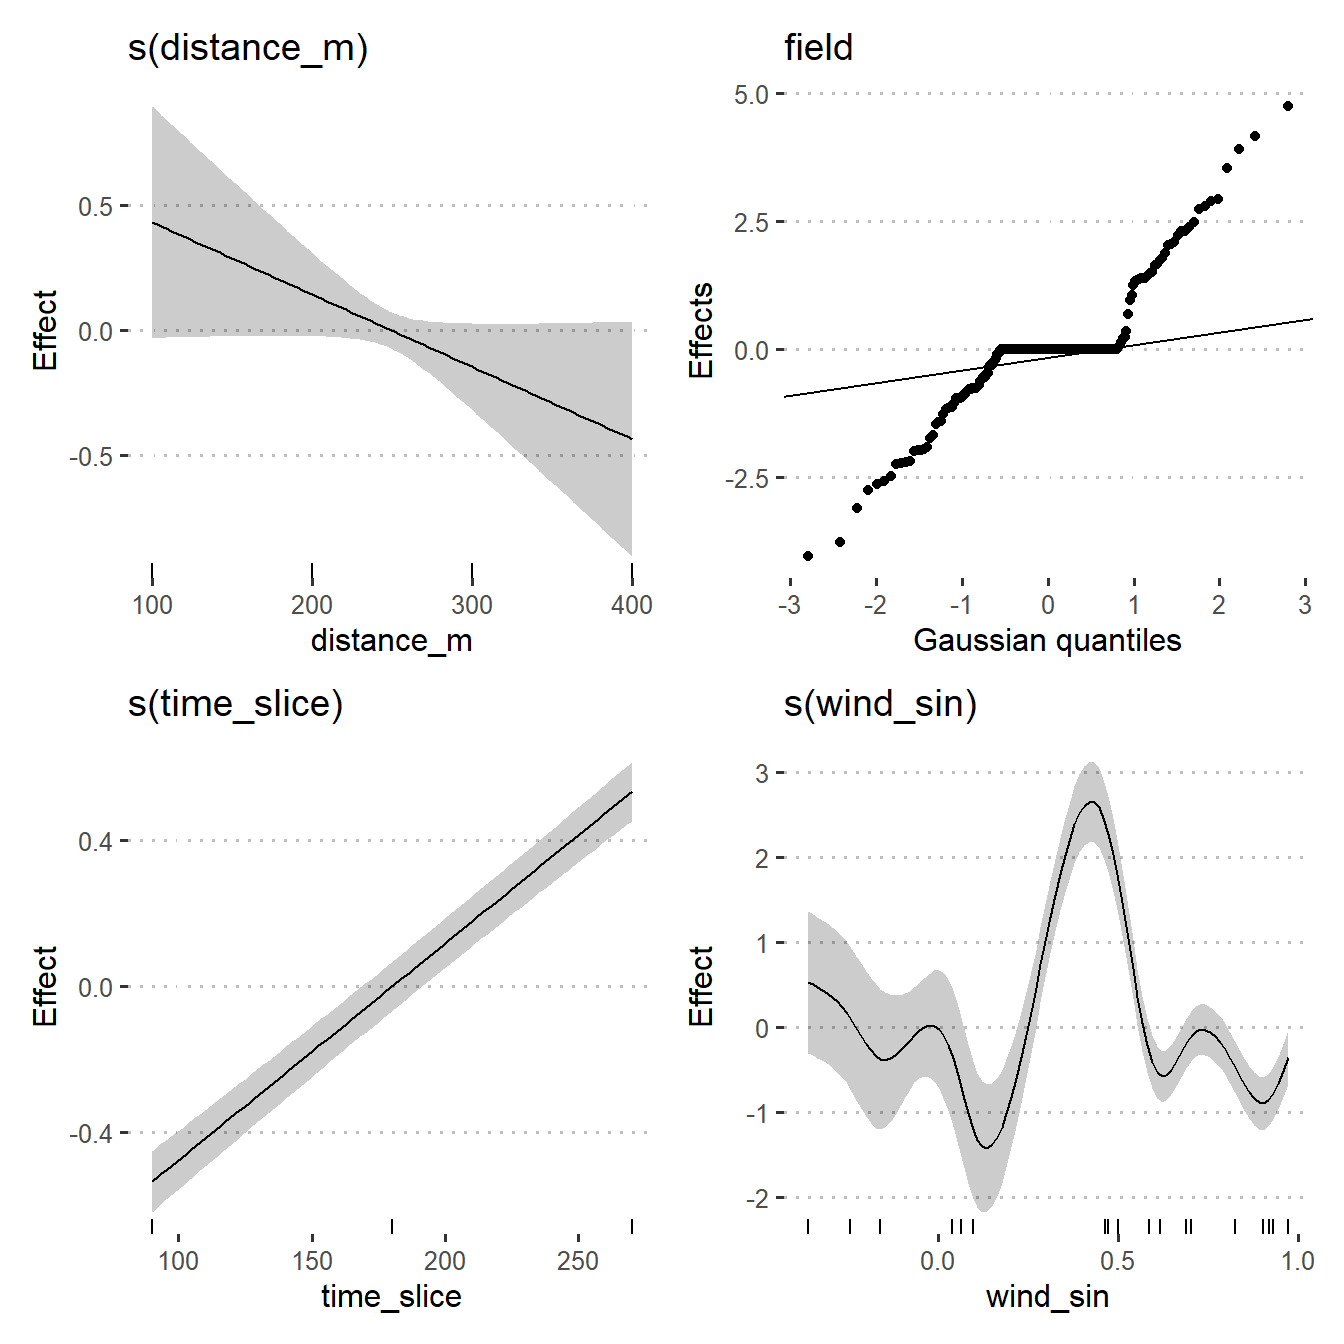
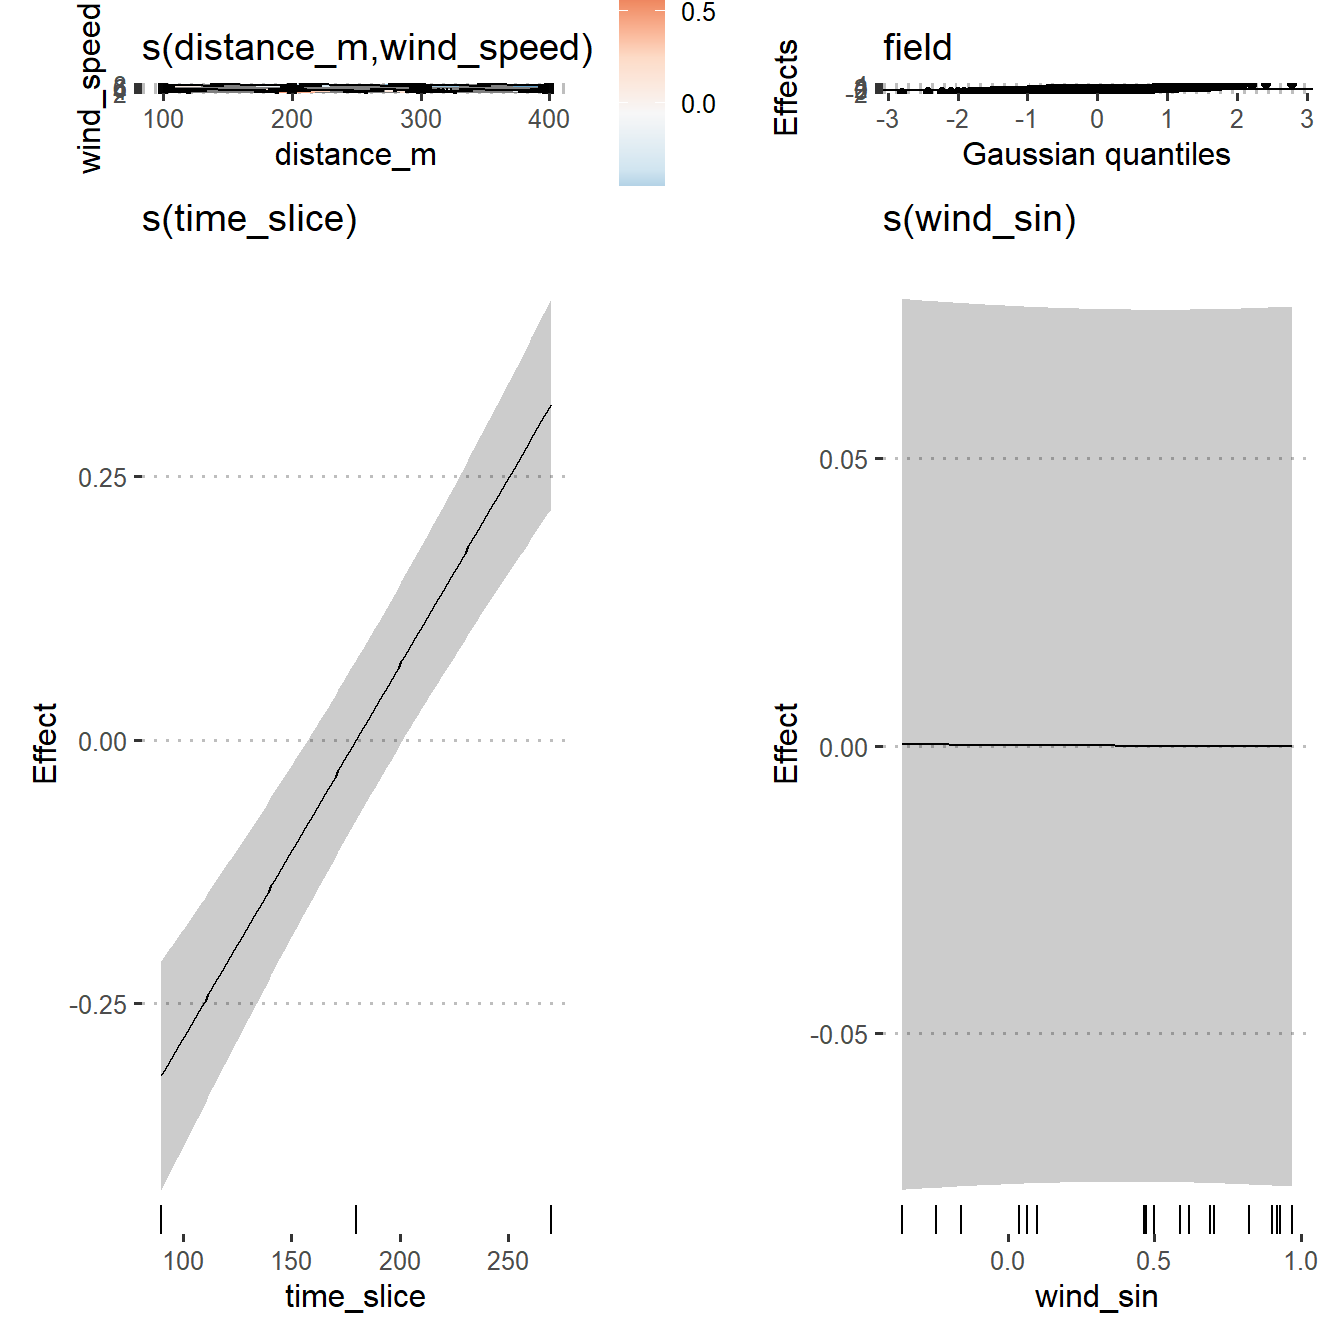
Getting closer now

diff --git a/gam_model.html b/gam_model.html
@@ -396,6 +396,7 @@ library(&quot;ggpubr&quot;)
 library(&quot;gratia&quot;)
 library(&quot;here&quot;)
 library(&quot;mgcv&quot;)
+library(&quot;DHARMa&quot;)
 theme_set(theme_pubclean())</code></pre>
 </div>
 <div id="spore-proportion-chi-squared-analysis" class="section level2">
@@ -472,10 +473,11 @@ recorded in spore type proportion at 100 m to 400 m downwind (P =
 ## # i 1 more variable: n_spore &lt;dbl&gt;</code></pre>
 <p>Based on the use of AIC to evaluate model fit to the data, the
 following GAM best fit the data with the smoothed time slice variables,
-s(<code>time_slice</code>); a smoothed term for both wind-speed and the
-traps’ distance from the harvest field in meters,
-s(<code>wind_speed, distance_m</code>); and the field and traps
-themselves as a smoothed term random effect, s(<code>field</code>,
+s(<code>time_slice</code>); a smoothed term for the direction from which
+the wind came using sin to transform the degrees,
+<code>s(wind_sin)</code>; a smoothed term for the distance of the traps
+from the field, <code>s(distance_m)</code> and the field and traps
+themselves as a smoothed term random effect, <code>s(field</code>,
 <code>xy</code>) using a negative binomial family.</p>
 <pre class="r"><code># create a factor for the trap locations in Cartesian coords to be used as a random effect
 mod_dat$xy &lt;- as.factor(paste(mod_dat$x, mod_dat$y))
@@ -484,80 +486,81 @@ mod_dat$xy &lt;- as.factor(paste(mod_dat$x, mod_dat$y))
 # https://fediscience.org/@bbolker/110856805100981742, see Appendix for screenshot
 mod_dat$wind_sin &lt;- sin(2 * pi * mod_dat$wind_degrees / 360)
 
-m1 &lt;- gam(
-  n_spore ~ s(time_slice, k = 3) +
-    s(wind_sin, k = 11) +
-    s(distance_m, k = 4) +
-    s(field, xy, bs = &quot;re&quot;),
-  data = mod_dat,
-  select = TRUE,
-  method = &quot;REML&quot;,
-  family = poisson()
-)</code></pre>
+m1 &lt;-
+  gam(
+    n_spore ~ s(time_slice, k = 3) + 
+      s(wind_sin, k = 11) +
+      s(distance_m, wind_speed, k = 18) +
+      s(field, xy, bs = &quot;re&quot;),
+    data = mod_dat,
+    select = TRUE,
+    method = &quot;REML&quot;,
+    family = nb()
+  )</code></pre>
 </div>
 <div id="inspect-model-m1" class="section level3">
 <h3>Inspect Model m1</h3>
 <pre class="r"><code>m1</code></pre>
 <pre><code>## 
-## Family: poisson 
+## Family: Negative Binomial(2.259) 
 ## Link function: log 
 ## 
 ## Formula:
 ## n_spore ~ s(time_slice, k = 3) + s(wind_sin, k = 11) + s(distance_m, 
-##     k = 4) + s(field, xy, bs = &quot;re&quot;)
+##     wind_speed, k = 18) + s(field, xy, bs = &quot;re&quot;)
 ## 
 ## Estimated degrees of freedom:
-##  0.998  9.818  0.786 89.622  total = 102.23 
+##  0.9876  0.0008  1.6372 89.6904  total = 93.32 
 ## 
-## REML score: 3645.489</code></pre>
+## REML score: 2644.74</code></pre>
 <div id="check-model-m1" class="section level4">
 <h4>Check model m1</h4>
 <pre class="r"><code>gam.check(m1)</code></pre>
 <p><img src="gam_model_files/figure-html/gam-check-m1-1.png" width="60%" /></p>
 <pre><code>## 
 ## Method: REML   Optimizer: outer newton
-## full convergence after 21 iterations.
-## Gradient range [-0.001809119,0.00166483]
-## (score 3645.489 &amp; scale 1).
-## Hessian positive definite, eigenvalue range [2.250043e-05,39.75521].
-## Model rank =  208 / 208 
+## full convergence after 12 iterations.
+## Gradient range [-0.0009535446,0.0009236352]
+## (score 2644.74 &amp; scale 1).
+## eigenvalue range [-8.850242e-05,159.5439].
+## Model rank =  222 / 222 
 ## 
 ## Basis dimension (k) checking results. Low p-value (k-index&lt;1) may
 ## indicate that k is too low, especially if edf is close to k&#39;.
 ## 
-##                    k&#39;     edf k-index p-value  
-## s(time_slice)   2.000   0.998    0.97   0.310  
-## s(wind_sin)    10.000   9.818    0.97   0.335  
-## s(distance_m)   3.000   0.786    0.93   0.035 *
-## s(field,xy)   192.000  89.622      NA      NA  
+##                                k&#39;      edf k-index p-value    
+## s(time_slice)            2.00e+00 9.88e-01    0.80  &lt;2e-16 ***
+## s(wind_sin)              1.00e+01 7.80e-04    0.80  &lt;2e-16 ***
+## s(distance_m,wind_speed) 1.70e+01 1.64e+00    0.93     0.6    
+## s(field,xy)              1.92e+02 8.97e+01      NA      NA    
 ## ---
 ## Signif. codes:  0 &#39;***&#39; 0.001 &#39;**&#39; 0.01 &#39;*&#39; 0.05 &#39;.&#39; 0.1 &#39; &#39; 1</code></pre>
 <pre class="r"><code>summary(m1)</code></pre>
 <pre><code>## 
-## Family: poisson 
+## Family: Negative Binomial(2.259) 
 ## Link function: log 
 ## 
 ## Formula:
 ## n_spore ~ s(time_slice, k = 3) + s(wind_sin, k = 11) + s(distance_m, 
-##     k = 4) + s(field, xy, bs = &quot;re&quot;)
+##     wind_speed, k = 18) + s(field, xy, bs = &quot;re&quot;)
 ## 
 ## Parametric coefficients:
 ##             Estimate Std. Error z value Pr(&gt;|z|)    
-## (Intercept)   0.7591     0.1987   3.821 0.000133 ***
+## (Intercept)   0.7964     0.1876   4.245 2.19e-05 ***
 ## ---
 ## Signif. codes:  0 &#39;***&#39; 0.001 &#39;**&#39; 0.01 &#39;*&#39; 0.05 &#39;.&#39; 0.1 &#39; &#39; 1
 ## 
 ## Approximate significance of smooth terms:
-##                   edf Ref.df  Chi.sq p-value    
-## s(time_slice)  0.9981      2    1022 &lt; 2e-16 ***
-## s(wind_sin)    9.8182     10 3433551 0.00267 ** 
-## s(distance_m)  0.7863      3 1724559 0.03716 *  
-## s(field,xy)   89.6224     95   10985 &lt; 2e-16 ***
+##                                edf Ref.df    Chi.sq p-value    
+## s(time_slice)            9.876e-01      2    98.607  &lt;2e-16 ***
+## s(wind_sin)              7.801e-04     10     0.001  0.2991    
+## s(distance_m,wind_speed) 1.637e+00     17 11787.236  0.0086 ** 
+## s(field,xy)              8.969e+01     95  2799.288  &lt;2e-16 ***
 ## ---
 ## Signif. codes:  0 &#39;***&#39; 0.001 &#39;**&#39; 0.01 &#39;*&#39; 0.05 &#39;.&#39; 0.1 &#39; &#39; 1
 ## 
-## R-sq.(adj) =  0.811   Deviance explained = 87.9%
-## -REML = 3645.5  Scale est. = 1         n = 1152</code></pre>
+## R-sq.(adj) =  0.706   Deviance explained = 82.4%
+## -REML = 2644.7  Scale est. = 1         n = 1152</code></pre>
 <pre class="r"><code>vis.gam(m1,
         theta = 50,
         ticktype = &quot;detailed&quot;,
@@ -582,6 +585,12 @@ m1 &lt;- gam(
 <p><img src="gam_model_files/figure-html/gam-check-m1-4.png" width="60%" /></p>
 <pre class="r"><code>draw(m1)</code></pre>
 <p><img src="gam_model_files/figure-html/gam-check-m1-5.png" width="60%" /></p>
+<pre class="r"><code># check residuals using DHARMa
+simulateResiduals(m1, plot = TRUE)</code></pre>
+<p><img src="gam_model_files/figure-html/gam-check-m1-6.png" width="60%" /></p>
+<pre><code>## Object of Class DHARMa with simulated residuals based on 250 simulations with refit = FALSE . See ?DHARMa::simulateResiduals for help. 
+##  
+## Scaled residual values: 0.9569192 0.2507656 0.5419476 0.2639389 0.01065575 0.4019814 0.3236341 0.768047 0.9418745 0.1221668 0.09916018 0.4530349 0.9667544 0.6847924 0.05671697 0.4134417 0.9083605 0.7967599 0.250994 0.2234824 ...</code></pre>
 <p>The model fully converged after 21 iterations. All of the predictive
 factors included were significant at <em>P</em> &gt; 0.05.</p>
 <p>Presumably due to the large number of outliers in the original data
@@ -613,6 +622,7 @@ predictions</h3>
 newd &lt;- expand_grid(
   time_slice = unique(mod_dat$time_slice),
   wind_sin = unique(mod_dat$wind_sin),
+  wind_speed = seq(from = 0.5, to = 8, by = 0.5),
   distance_m = unique(mod_dat$distance_m),
   xy = unique(mod_dat$xy),
   field = 1
